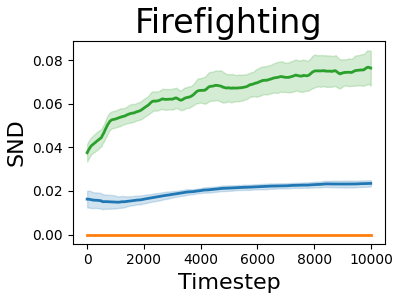
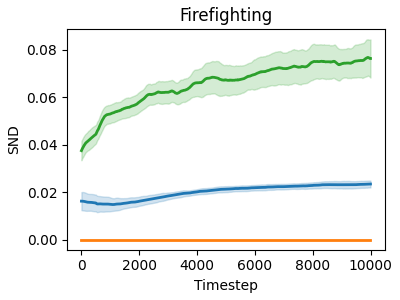
add param ct

diff --git a/plotting/plot.py b/plotting/plot.py
@@ -74,9 +74,9 @@ def baseline_name(row):
             return "CASH"
     else:
         if row['cap_aware']:
-            return "RNN-CA"
+            return "RNN-EXP"
         else:
-            return "RNN-UN"
+            return "RNN-IMP"
 
 def get_from_wandb():
     # get runs from wandb
@@ -195,8 +195,8 @@ def plot_metrics(df, y_label, y_column, title, mean_window, std_window, downsamp
     base_palette = sns.color_palette()
     palette = {
         'CASH': base_palette[2],
-        'RNN-CA': base_palette[0],
-        'RNN-UN': base_palette[1],
+        'RNN-EXP': base_palette[0],
+        'RNN-IMP': base_palette[1],
     }
     
     # Plot each baseline separately
@@ -214,16 +214,30 @@ def plot_metrics(df, y_label, y_column, title, mean_window, std_window, downsamp
                         baseline_data[y_column] + baseline_data[f'{y_column}_std'],
                         color=color, alpha=0.2)
     
-    plt.xlabel('Timestep', fontsize=16)
-    plt.ylabel(y_label, fontsize=16)
-    plt.title(title, fontsize=24)
-    # plt.legend(loc='best').set_draggable(True)
+    plt.xlabel('Timestep')
+    plt.ylabel(y_label)
+    plt.title(title)
+    plt.legend(loc='best', fontsize=18)
     plt.tight_layout(pad=0.5)
 
     # plt.show()
     plt.savefig(f'{save_folder}/{title}-{y_label}.png'.lower().replace(' ', '-'))
 
 def plot_from_saved():
+    """
+    # for legend
+    filename = "final-qmix-fire.pkl"
+    df = load_dataframe(filename)
+
+    pd.set_option('display.max_columns', None)
+    print(df.head())
+    
+    # translate baseline names
+    df['baseline'] = df.apply(lambda row: f"{baseline_name(row)}", axis=1)
+    plot_metrics(df, y_label='Training Returns', y_column='returns', title='Firefighting', mean_window=100, std_window=100, downsample_factor=10, save_folder=".")
+    exit(0)
+    """
+
     # QMIX Fire
     filename = "final-qmix-fire.pkl"
     df = load_dataframe(filename)
@@ -324,7 +338,99 @@ def plot_from_saved():
     plot_metrics(df, y_label='Makespan', y_column='policy/makespan', title='Transport', mean_window=100, std_window=100, downsample_factor=1, save_folder="dagger")
 
 
+def plot_parameter_counts(param_dict, title):
+    """
+    Creates a horizontal bar chart showing parameter counts for different architectures
+    """
+    plt.figure(figsize=(4, 3))
+    
+    # Data
+    baselines = list(param_dict.keys())
+    params = list(param_dict.values())
+    
+    # Colors
+    base_palette = sns.color_palette()
+    color_dict = {
+        'CASH': base_palette[2],
+        'RNN-EXP': base_palette[0],
+        'RNN-IMP': base_palette[1]
+    }
+    colors = [color_dict[baseline] for baseline in baselines]
+    
+    # Create horizontal bar chart
+    y_pos = np.arange(len(baselines))
+    bars = plt.barh(y_pos, params, color=colors)
+    
+    # Customize the plot
+    plt.xlabel('Learnable Parameters')
+    plt.ylabel('Architecture')
+    plt.title(title)
+    
+    # Format x-axis to use scientific notation
+    plt.ticklabel_format(axis='x', style='sci', scilimits=(4,4))
+    # Or alternatively, divide by 10000 manually:
+    # plt.xticks(plt.xticks()[0], [f'{x/1e4:.1f}' for x in plt.xticks()[0]])
+    
+    # Add value labels inside the bars, aligned to the right end
+    for i, bar in enumerate(bars):
+        width = bar.get_width()
+        plt.text(width * 0.95,  # Position at 95% of bar width
+                bar.get_y() + bar.get_height()/2,
+                f'{params[i]:,}',
+                ha='right',  # Right-align the text
+                va='center',
+                fontsize=10,
+                color='white')  # Make text white for better visibility
+    
+    plt.yticks(y_pos, baselines)
+    # plt.grid(axis='x', linestyle='--', alpha=0.2)
+    plt.tight_layout(pad=0.5)
+    # plt.show()
+    plt.savefig(f'{title}-param-ct.png'.lower().replace('/', ' ').replace(' ', '-'))
+
+
 if __name__ == "__main__":
     # get_from_wandb()
-    plot_from_saved()
+    # plot_from_saved()
 
+    param_counts = {
+        'CASH': 42469,
+        'RNN-EXP': 102149,
+        'RNN-IMP': 102149
+    }
+    plot_parameter_counts(param_counts, 'QMIX / Firefighting')
+
+    param_counts = {
+        'CASH': 43365,
+        'RNN-EXP': 103173,
+        'RNN-IMP': 103173
+    }
+    plot_parameter_counts(param_counts, 'QMIX / Transport')
+
+    param_counts = {
+        'CASH': 26821,
+        'RNN-EXP': 118661,
+        'RNN-IMP': 118661
+    }
+    plot_parameter_counts(param_counts, 'MAPPO / Firefighting')
+
+    param_counts = {
+        'CASH': 27269,
+        'RNN-EXP': 119685,
+        'RNN-IMP': 119685
+    }
+    plot_parameter_counts(param_counts, 'MAPPO / Transport')
+
+    param_counts = {
+        'CASH': 39959557,
+        'RNN-EXP': 100786181,
+        'RNN-IMP': 100786181
+    }
+    plot_parameter_counts(param_counts, 'DAgger / Firefighting')
+
+    param_counts = {
+        'CASH': 39988229,
+        'RNN-EXP': 100818949,
+        'RNN-IMP': 100818949
+    }
+    plot_parameter_counts(param_counts, 'DAgger / Transport')
